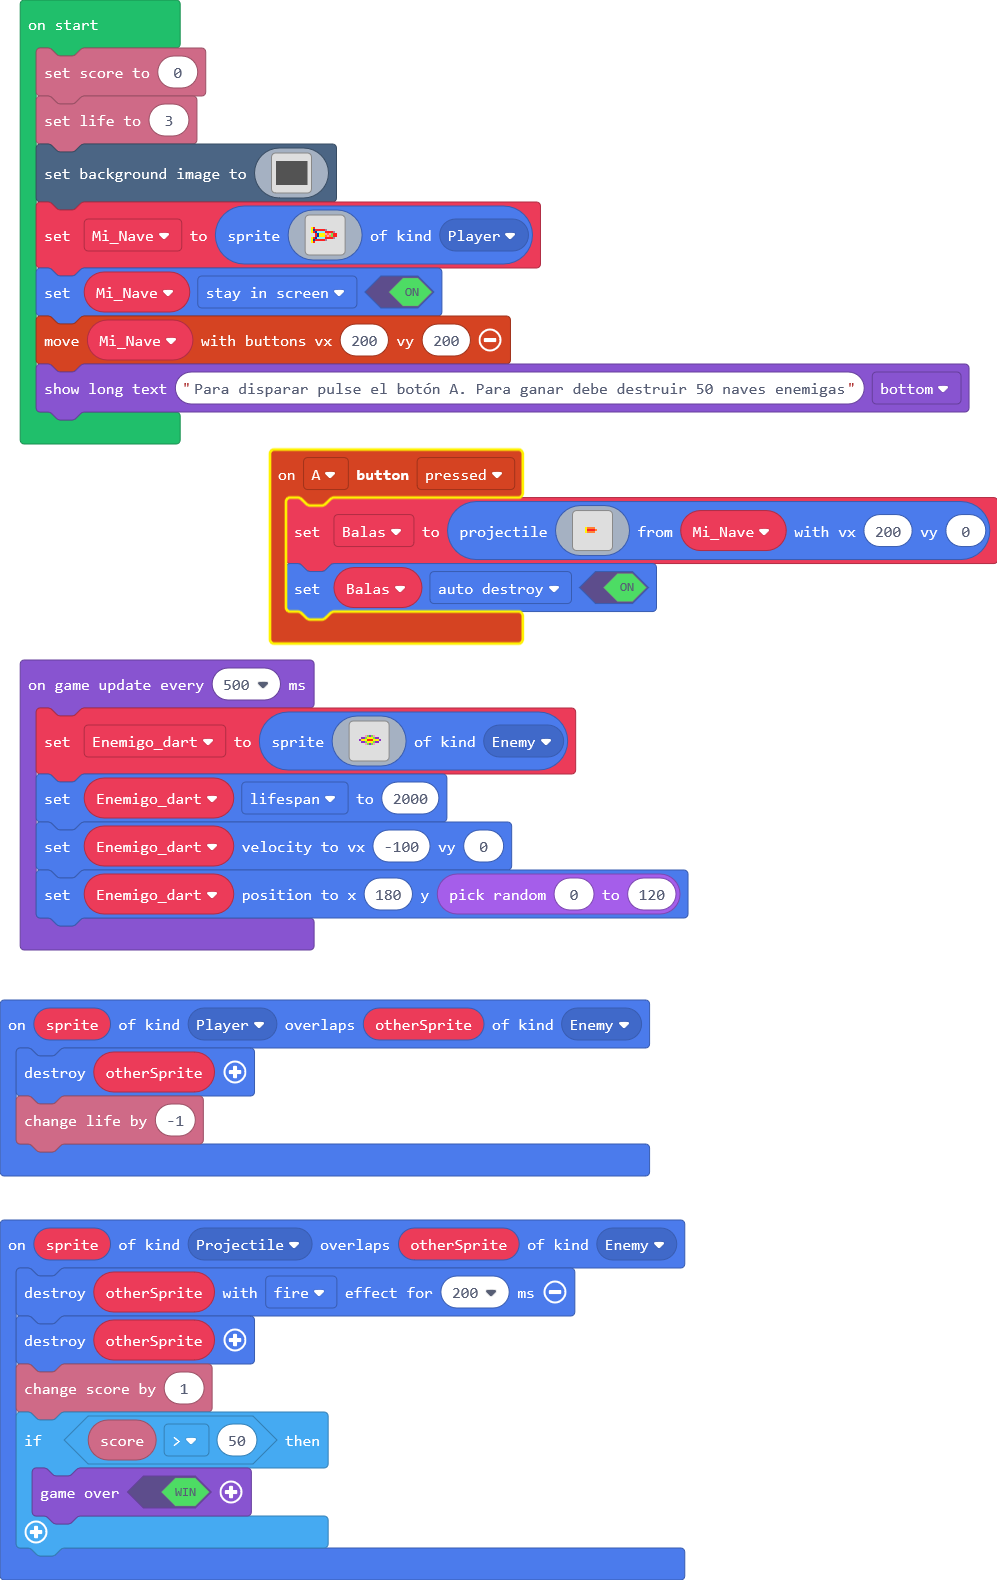
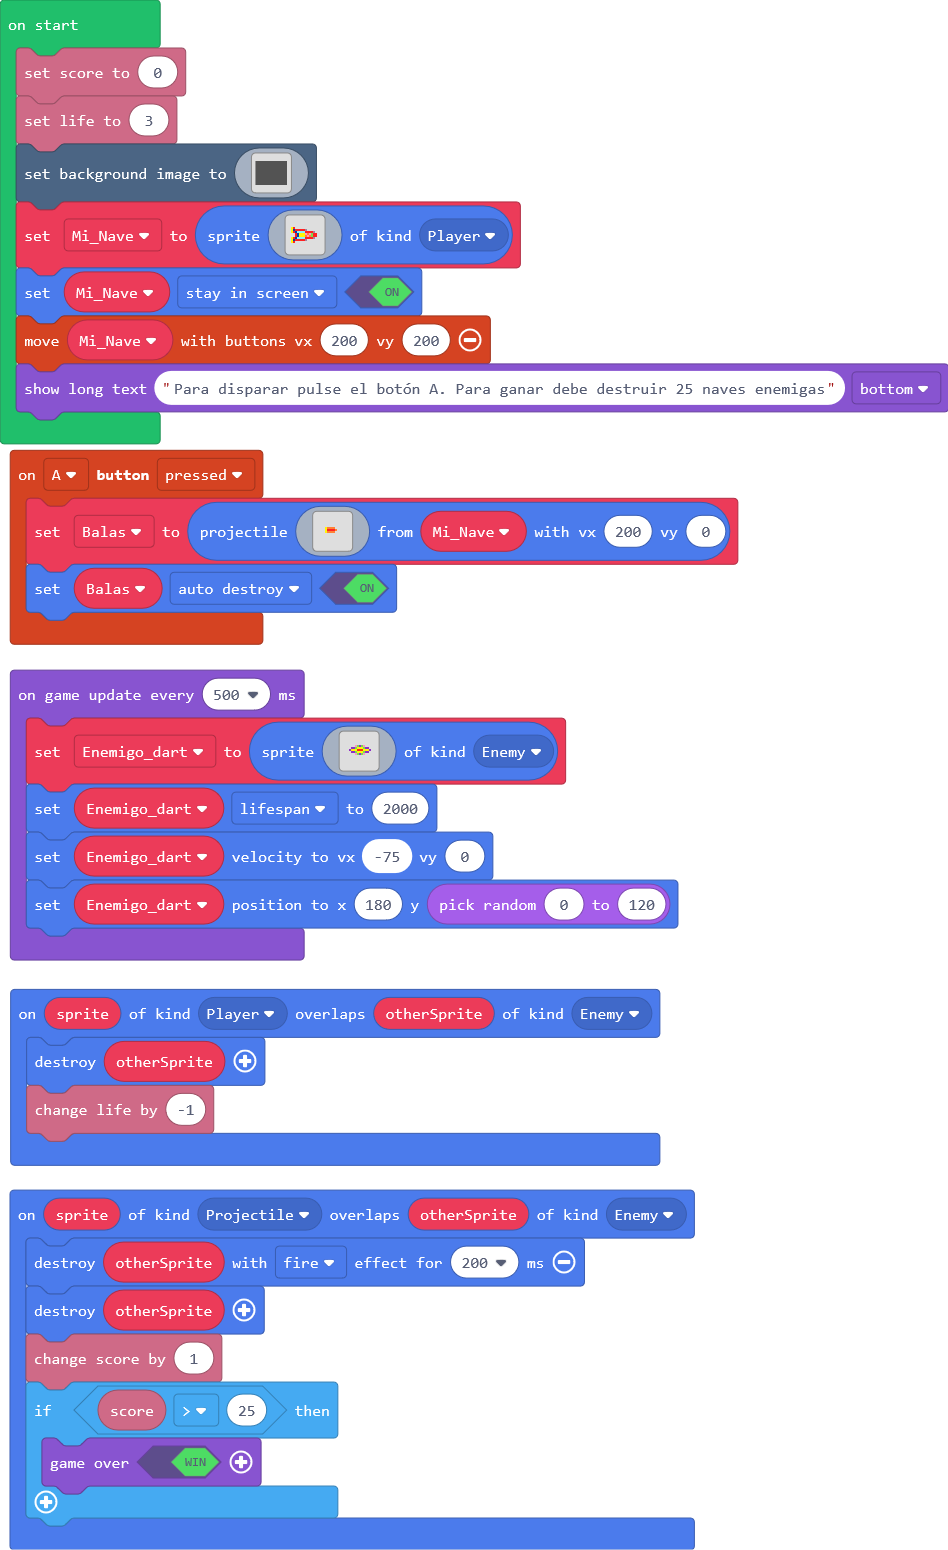
Hacer el juego posible

Changed region(s): [[0.0, 0.0, 1.0, 1.0], [0.673, 0.96, 0.7342, 1.0], [0.3059, 0.96, 0.3671, 0.991]]

diff --git a/main.ts b/main.ts
@@ -2,7 +2,7 @@ sprites.onOverlap(SpriteKind.Projectile, SpriteKind.Enemy, function (sprite, oth
     otherSprite.destroy(effects.fire, 200)
     otherSprite.destroy()
     info.changeScoreBy(1)
-    if (info.score() > 50) {
+    if (info.score() > 25) {
         game.over(true)
     }
 })
@@ -178,7 +178,7 @@ Mi_Nave = sprites.create(img`
 `, SpriteKind.Player)
 Mi_Nave.setFlag(SpriteFlag.StayInScreen, true)
 controller.moveSprite(Mi_Nave, 200, 200)
-game.showLongText("Para disparar pulse el botón A. Para ganar debe destruir 50 naves enemigas", DialogLayout.Bottom)
+game.showLongText("Para disparar pulse el botón A. Para ganar debe destruir 25 naves enemigas", DialogLayout.Bottom)
 game.onUpdateInterval(500, function () {
     Enemigo_dart = sprites.create(img`
 . . . . . . . . . . . . . . . . 
@@ -199,6 +199,6 @@ game.onUpdateInterval(500, function () {
 . . . . . . . . . . . . . . . . 
 `, SpriteKind.Enemy)
     Enemigo_dart.lifespan = 2000
-    Enemigo_dart.setVelocity(-100, 0)
+    Enemigo_dart.setVelocity(-75, 0)
     Enemigo_dart.setPosition(180, Math.randomRange(0, 120))
 })
